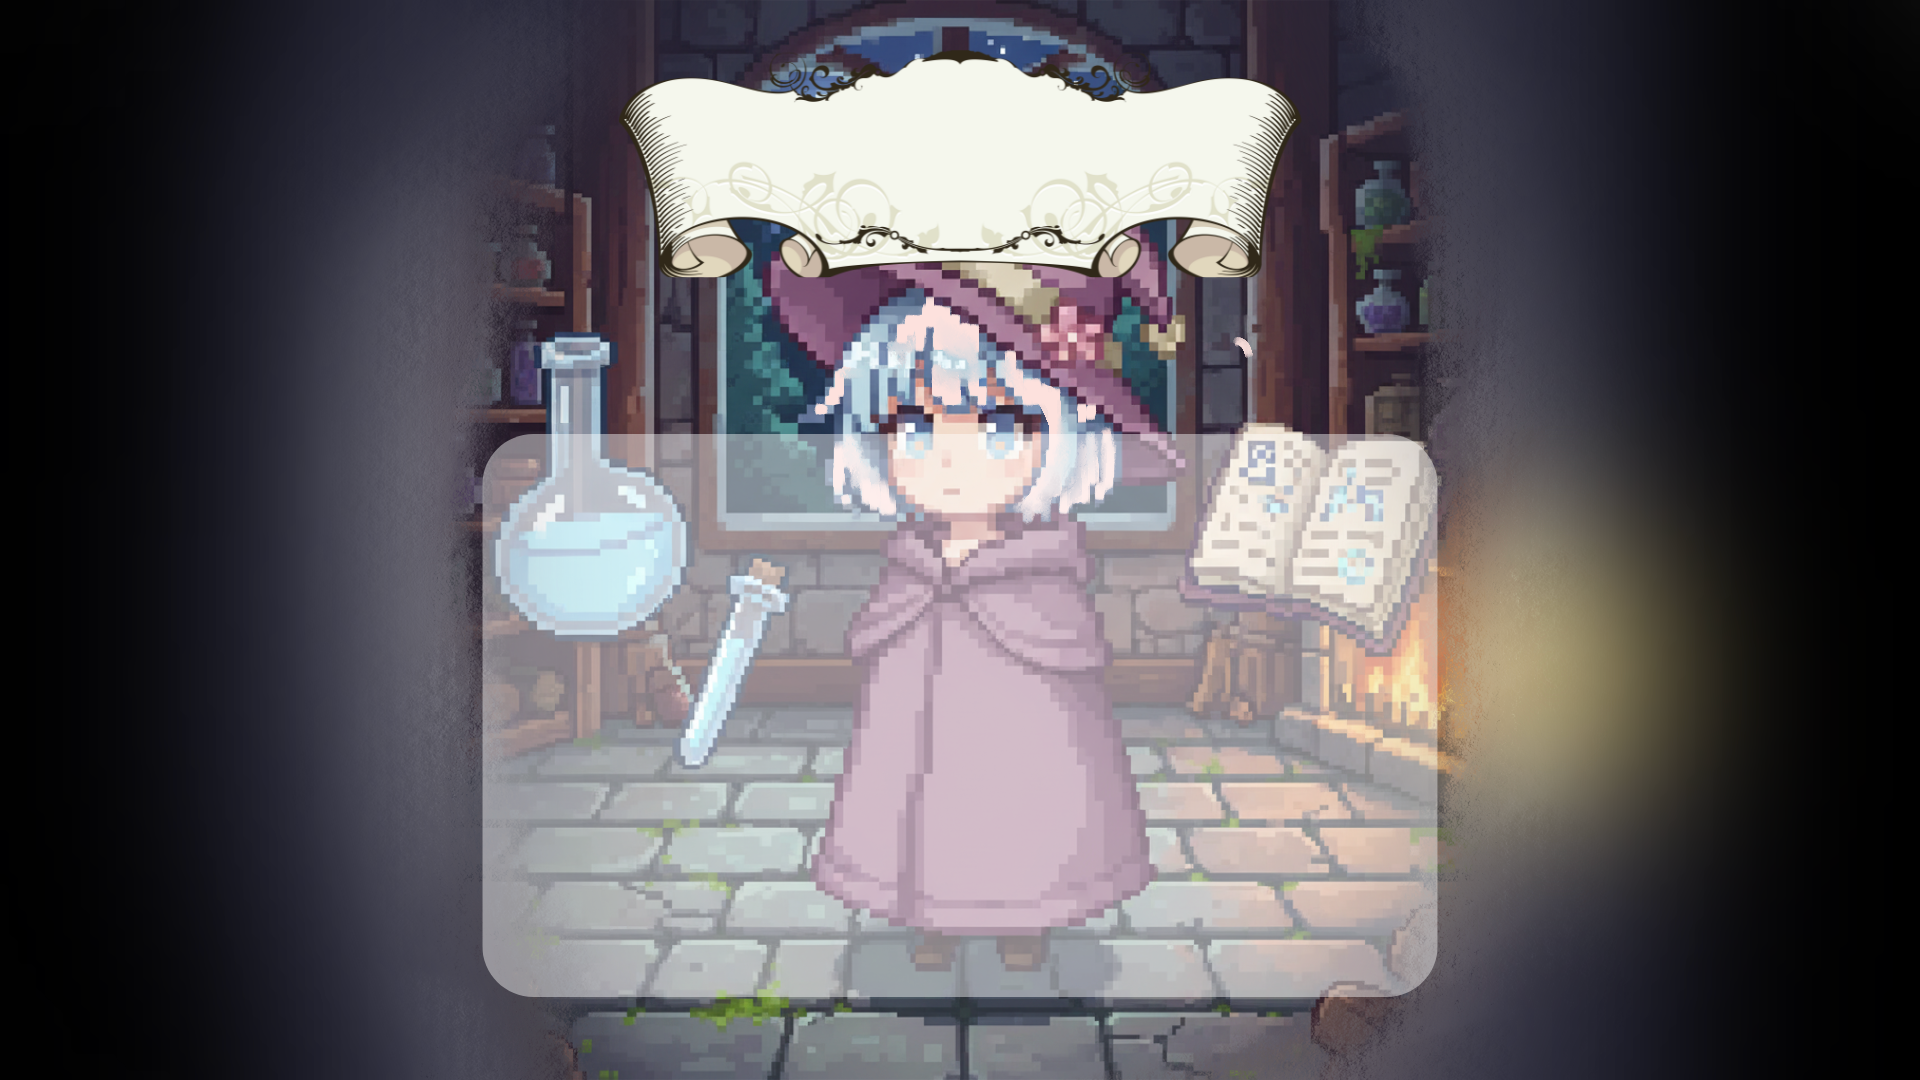
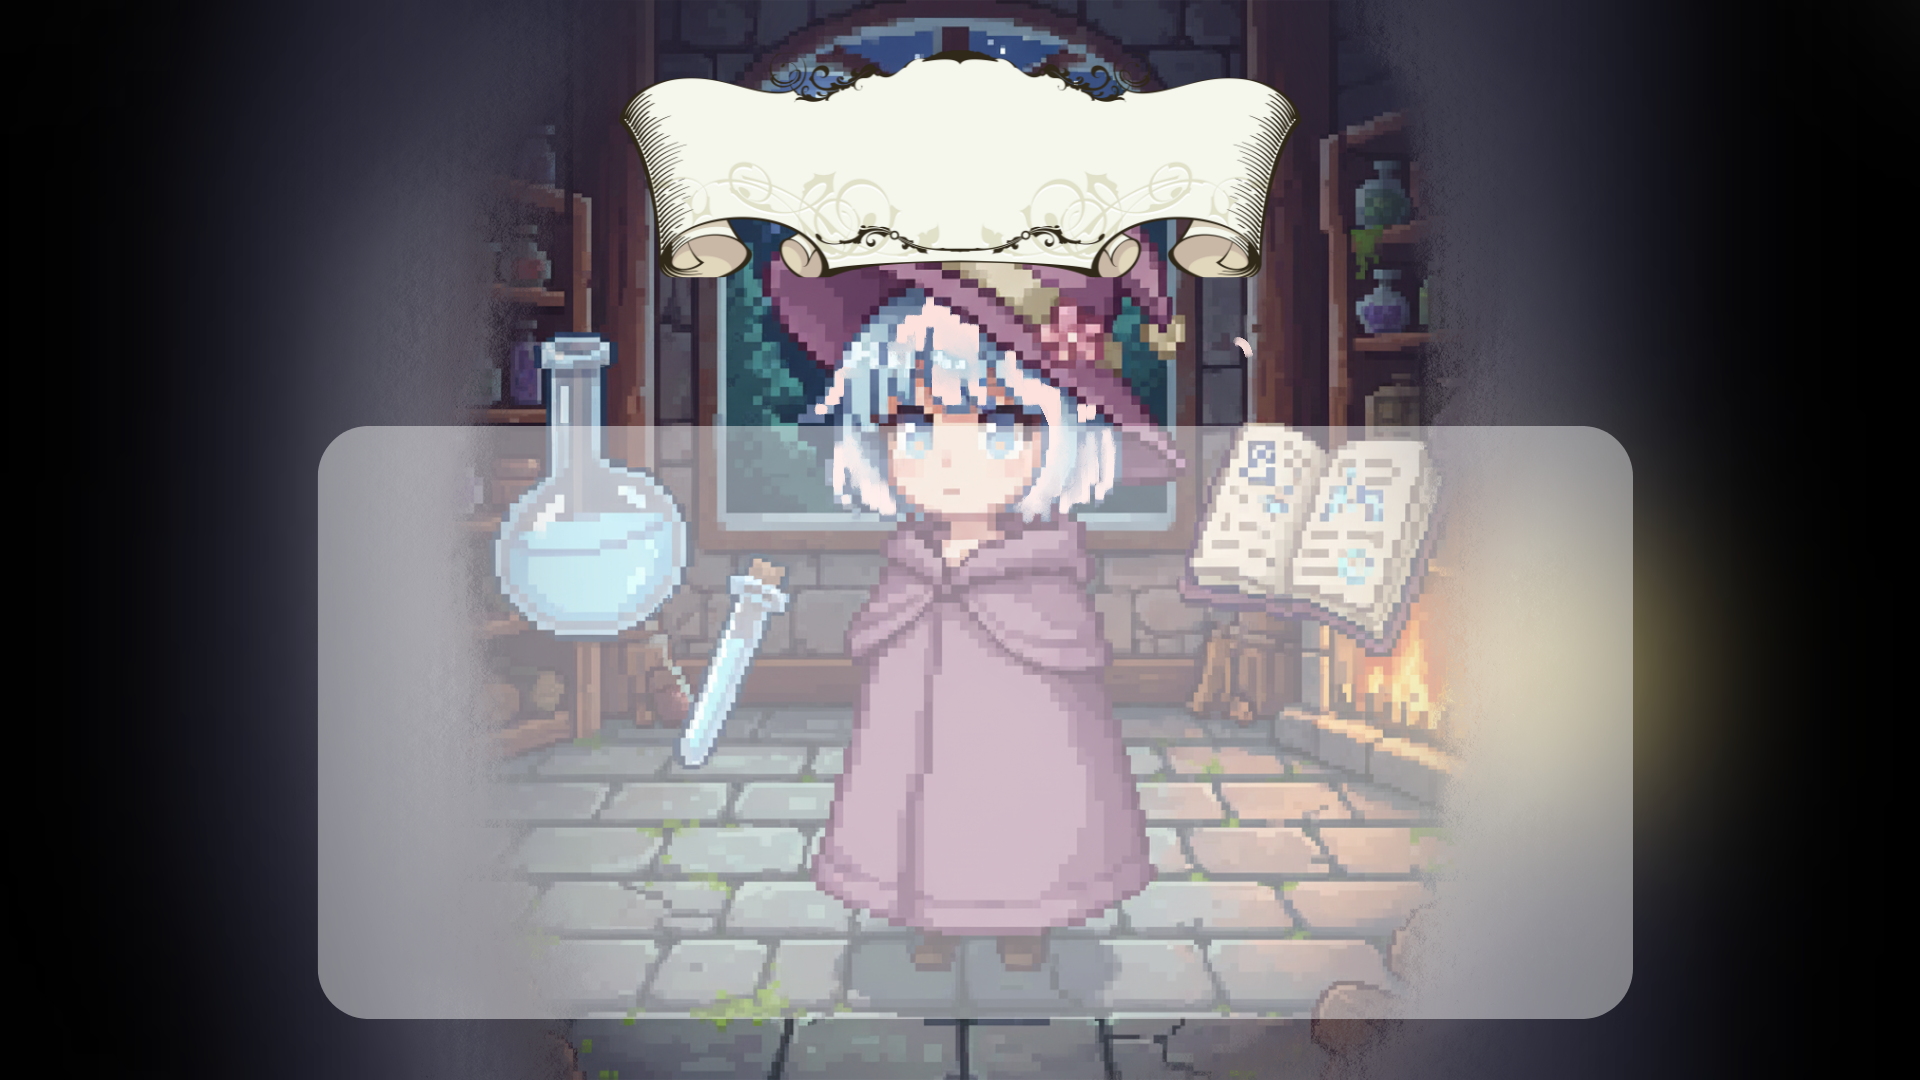
fix bg and add sm ui

Changed region(s): [[0.1562, 0.3972, 0.875, 0.9472], [0.5312, 0.3972, 0.6562, 0.4278]]

diff --git a/WitchMemo.py b/WitchMemo.py
@@ -665,10 +665,10 @@ def battle_screen(deck_name, count_cards, is_boss_stage):
             if not queue: 
                 if not wrong_cards: 
                     if all(mhp <= 0 for mhp in monster_hp):
-                         result = "VICTORY"
+                        result = "VICTORY"
                     else:
-                         log("Cards finished, but monsters remain...", (255, 100, 100))
-                         result = "DEFEAT"
+                        log("Cards finished, but monsters remain...", (255, 100, 100))
+                        result = "DEFEAT"
                     running = False 
                     continue 
                 else:
@@ -902,11 +902,13 @@ def choose_stage_and_start(deck_name):
         # ไม่สามารถเริ่มได้ (การ์ดน้อยกว่า 5)
         while True:
             MOUSE_POS = pygame.mouse.get_pos()
-            screen_color()
+            # SCREEN.fill(basecolor)
+            nec = pygame.image.load("Image/Background/not-enough-card.png")
+            SCREEN.blit(nec, (0, 0))
             err_text = get_font(40, 2).render(f"Deck '{deck_name}' needs at least 5 cards to play.", True, (255, 100, 100))
             SCREEN.blit(err_text, err_text.get_rect(center=(screen_width//2, screen_height//2 - 50)))
-            
-            BACK_BUTTON = Button(None, (screen_width//2, screen_height//2 + 100), "BACK", get_font(75, 1), triadic_2, triadic_3)
+
+            BACK_BUTTON = Button(image=pygame.image.load("Image/buttonn.png"), pos=(screen_width//2, screen_height//2 + 100), text_input="BACK", font=get_font(75, 1), base_color=triadic_2, hovering_color=triadic_3)
             BACK_BUTTON.changeColor(MOUSE_POS)
             BACK_BUTTON.update(SCREEN)
 
@@ -1396,9 +1398,9 @@ def edit_deck(deck_name):
         ADD_BUTTON = Button(image=None, pos=(screen_width//2, 400),
                             text_input="ADD WORD", font=get_font(55, 1),
                             base_color=(200, 180, 255), hovering_color=all_ismax)
-        BACK_BUTTON = Button(image=None, pos=(screen_width//2, 950),
-                             text_input="BACK", font=get_font(75, 1),
-                             base_color=triadic_3, hovering_color=triadic_2)
+        BACK_BUTTON = Button(image=pygame.image.load("Image/buttonn.png"), pos=(screen_width//2, 950),
+                            text_input="BACK", font=get_font(75, 1),
+                            base_color=triadic_3, hovering_color=triadic_2)
         for button in [ADD_BUTTON, BACK_BUTTON]:
             button.changeColor(EDIT_MOUSE_POS)
             button.update(SCREEN)
